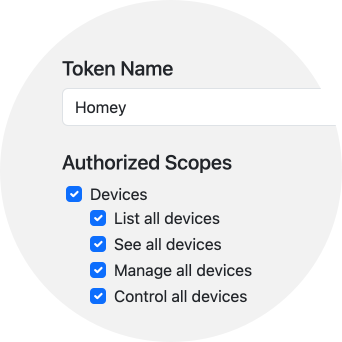
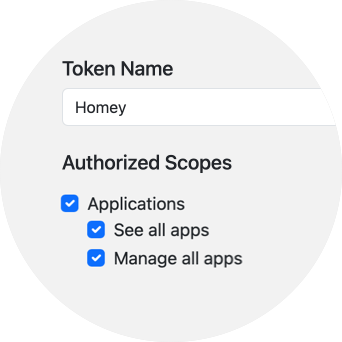
add repair

Changed region(s): [[0.1754, 0.5263, 0.731, 0.9064]]

diff --git a/lib/SmartThingsDriver.js b/lib/SmartThingsDriver.js
@@ -8,8 +8,6 @@ const {
 
 module.exports = class SmartThingsDriver extends OAuth2Driver {
 
-  // TODO: onRepair when old situation is detected (only api key)
-
   onPair(session) {
     const OAuth2ConfigId = this.getOAuth2ConfigId();
     let OAuth2SessionId = OAuth2Util.getRandomId();
@@ -69,7 +67,6 @@ module.exports = class SmartThingsDriver extends OAuth2Driver {
       const resJson = await res.json();
       clientId = resJson.oauthClientId;
       clientSecret = resJson.oauthClientSecret;
-      this.log(resJson);
 
       client = this.homey.app.createOAuth2Client({
         sessionId: OAuth2SessionId,
@@ -132,6 +129,99 @@ module.exports = class SmartThingsDriver extends OAuth2Driver {
     session.setHandler('add_device', async () => {
       this.log('At least one device has been added, saving the client...');
       client.save();
+    });
+  }
+
+  onRepair(session, device) {
+    const { OAuth2SessionId } = device.getStore();
+    const { oAuth2Client: client } = device;
+    const token = client.getToken();
+    let clientId = token.client_id ?? null;
+    let clientSecret = token.client_secret ?? null;
+
+    session.setHandler('validateKey', async apikey => {
+      this.log(`Creating API Client with API Key ${apikey}...`);
+
+      // Create an OAuth2 Client on behalf of the user's API key
+      const res = await fetch('https://api.smartthings.com/v1/apps', {
+        method: 'POST',
+        headers: {
+          Authorization: `Bearer ${apikey}`,
+          'Content-Type': 'application/json',
+        },
+        body: JSON.stringify({
+          appName: `homey-${OAuth2SessionId}-${Date.now()}`,
+          displayName: 'Homey',
+          description: 'A Better Smart Home',
+          appType: 'API_ONLY',
+          classifications: ['DEVICE'],
+          oauth: {
+            clientName: 'Homey',
+            scope: [
+              'r:devices:*',
+              'x:devices:*',
+            ],
+            redirectUris: ['https://callback.athom.com/oauth2/callback'],
+          },
+        }),
+      });
+
+      if (!res.ok) {
+        throw new Error(res.statusText);
+      }
+
+      const resJson = await res.json();
+      clientId = resJson.oauthClientId;
+      clientSecret = resJson.oauthClientSecret;
+
+      client._clientId = clientId;
+      client._clientSecret = clientSecret;
+
+      return true;
+    });
+
+    session.setHandler('showView', async viewId => {
+      if (viewId === 'apikey') {
+        if (token.client_id && token.client_secret) {
+          session.showView('login_oauth2').catch(this.error);
+          return;
+        }
+      }
+
+      if (viewId === 'login_oauth2') {
+        try {
+          const oAuth2AuthorizationUrl = client.getAuthorizationUrl();
+          const oAuth2Callback = await this.homey.cloud.createOAuth2Callback(oAuth2AuthorizationUrl);
+          oAuth2Callback
+            .on('url', url => {
+              session.emit('url', url).catch(this.error);
+            })
+            .on('code', code => {
+              client.getTokenByCode({ code })
+                .then(async () => {
+                  const token = client.getToken();
+
+                  // Save Client ID & Secret in the Token
+                  token.client_id = client._clientId;
+                  token.client_secret = client._clientSecret;
+
+                  // Save the OAuth2Client
+                  client.save();
+
+                  // TODO: Re-init *all* devices
+                  await device.onOAuth2Uninit();
+                  await device.onOAuth2Init();
+
+                  session.emit('authorized').catch(this.error);
+                })
+                .catch(err => {
+                  session.emit('error', err.message || err.toString()).catch(this.error);
+                });
+            });
+        } catch (err) {
+          session.emit('error', err.message || err.toString()).catch(this.error);
+        }
+      }
     });
   }
 

diff --git a/drivers/dryer/repair/apikey.html b/drivers/dryer/repair/apikey.html
@@ -39,7 +39,7 @@
         target="_blank"
         style="color: rgb(0, 130, 250);"
       >Sign in to SmartThings</a>.</li>
-    <li>Type <strong>Homey</strong> as name. Select the <strong>Devices</strong> checkbox.</li>
+    <li>Type <strong>Homey</strong> as name. Select the <strong>Applications</strong> checkbox.</li>
     <li>Tap <strong>Generate Token</strong>, and then copy & paste the key here.</li>
   </ol>
 
@@ -69,7 +69,7 @@
       Homey.hideLoadingOverlay();
 
       if (hasClient) {
-        return Homey.nextView();
+        return Homey.showView('list_devices');
       }
 
       const $link = document.getElementById('st-link');
@@ -96,7 +96,7 @@
 
         Homey.emit('validateKey', $apikey.value)
           .then(valid => {
-            if (valid) return Homey.done();
+            if (valid) return Homey.nextView();
             Homey.alert('That Access Token did not work. Please try again.');
           })
           .catch(err => {

diff --git a/drivers/oven/repair/apikey.html b/drivers/oven/repair/apikey.html
@@ -39,7 +39,7 @@
         target="_blank"
         style="color: rgb(0, 130, 250);"
       >Sign in to SmartThings</a>.</li>
-    <li>Type <strong>Homey</strong> as name. Select the <strong>Devices</strong> checkbox.</li>
+    <li>Type <strong>Homey</strong> as name. Select the <strong>Applications</strong> checkbox.</li>
     <li>Tap <strong>Generate Token</strong>, and then copy & paste the key here.</li>
   </ol>
 
@@ -69,7 +69,7 @@
       Homey.hideLoadingOverlay();
 
       if (hasClient) {
-        return Homey.nextView();
+        return Homey.showView('list_devices');
       }
 
       const $link = document.getElementById('st-link');
@@ -96,7 +96,7 @@
 
         Homey.emit('validateKey', $apikey.value)
           .then(valid => {
-            if (valid) return Homey.done();
+            if (valid) return Homey.nextView();
             Homey.alert('That Access Token did not work. Please try again.');
           })
           .catch(err => {

diff --git a/drivers/refrigerator/repair/apikey.html b/drivers/refrigerator/repair/apikey.html
@@ -39,7 +39,7 @@
         target="_blank"
         style="color: rgb(0, 130, 250);"
       >Sign in to SmartThings</a>.</li>
-    <li>Type <strong>Homey</strong> as name. Select the <strong>Devices</strong> checkbox.</li>
+    <li>Type <strong>Homey</strong> as name. Select the <strong>Applications</strong> checkbox.</li>
     <li>Tap <strong>Generate Token</strong>, and then copy & paste the key here.</li>
   </ol>
 
@@ -69,7 +69,7 @@
       Homey.hideLoadingOverlay();
 
       if (hasClient) {
-        return Homey.nextView();
+        return Homey.showView('list_devices');
       }
 
       const $link = document.getElementById('st-link');
@@ -96,7 +96,7 @@
 
         Homey.emit('validateKey', $apikey.value)
           .then(valid => {
-            if (valid) return Homey.done();
+            if (valid) return Homey.nextView();
             Homey.alert('That Access Token did not work. Please try again.');
           })
           .catch(err => {

diff --git a/drivers/tv/repair/apikey.html b/drivers/tv/repair/apikey.html
@@ -39,7 +39,7 @@
         target="_blank"
         style="color: rgb(0, 130, 250);"
       >Sign in to SmartThings</a>.</li>
-    <li>Type <strong>Homey</strong> as name. Select the <strong>Devices</strong> checkbox.</li>
+    <li>Type <strong>Homey</strong> as name. Select the <strong>Applications</strong> checkbox.</li>
     <li>Tap <strong>Generate Token</strong>, and then copy & paste the key here.</li>
   </ol>
 
@@ -69,7 +69,7 @@
       Homey.hideLoadingOverlay();
 
       if (hasClient) {
-        return Homey.nextView();
+        return Homey.showView('list_devices');
       }
 
       const $link = document.getElementById('st-link');
@@ -96,7 +96,7 @@
 
         Homey.emit('validateKey', $apikey.value)
           .then(valid => {
-            if (valid) return Homey.done();
+            if (valid) return Homey.nextView();
             Homey.alert('That Access Token did not work. Please try again.');
           })
           .catch(err => {

diff --git a/drivers/washer/repair/apikey.html b/drivers/washer/repair/apikey.html
@@ -39,7 +39,7 @@
         target="_blank"
         style="color: rgb(0, 130, 250);"
       >Sign in to SmartThings</a>.</li>
-    <li>Type <strong>Homey</strong> as name. Select the <strong>Devices</strong> checkbox.</li>
+    <li>Type <strong>Homey</strong> as name. Select the <strong>Applications</strong> checkbox.</li>
     <li>Tap <strong>Generate Token</strong>, and then copy & paste the key here.</li>
   </ol>
 
@@ -69,7 +69,7 @@
       Homey.hideLoadingOverlay();
 
       if (hasClient) {
-        return Homey.nextView();
+        return Homey.showView('list_devices');
       }
 
       const $link = document.getElementById('st-link');
@@ -96,7 +96,7 @@
 
         Homey.emit('validateKey', $apikey.value)
           .then(valid => {
-            if (valid) return Homey.done();
+            if (valid) return Homey.nextView();
             Homey.alert('That Access Token did not work. Please try again.');
           })
           .catch(err => {

diff --git a/lib/SmartThingsOAuth2Client.js b/lib/SmartThingsOAuth2Client.js
@@ -45,9 +45,21 @@ module.exports = class SmartThingsOAuth2Client extends OAuth2Client {
   eventSourceDevices = {};
   eventSourceSubscriptionId = null;
 
-  async onShouldRefreshToken() {
+  async onShouldRefreshToken(...props) {
     if (this.token?.refresh_token === null) return false; // Never refresh static api keys
-    return super.onShouldRefreshToken();
+    return super.onShouldRefreshToken(...props);
+  }
+
+  async onRefreshToken(...props) {
+    try {
+      return await super.onRefreshToken(...props);
+    } catch (err) {
+      if (err.message === 'Token cannot be refreshed') {
+        throw new Error('The API Key that was previously used, has been disabled by Samsung SmartThings. To fix this, please repair your device.');
+      }
+
+      throw err;
+    }
   }
 
   async onGetTokenByCode({ code }) {

diff --git a/.homeycompose/drivers/repair/apikey/index.html b/.homeycompose/drivers/repair/apikey/index.html
@@ -28,7 +28,7 @@
 
   <img
     id="st-screenshot"
-    src="apikey.assets/example.png"
+    src="{{assets}}/example.png"
   />
 
   <p>To connect SmartThings, you need to create an Access Token.</p>
